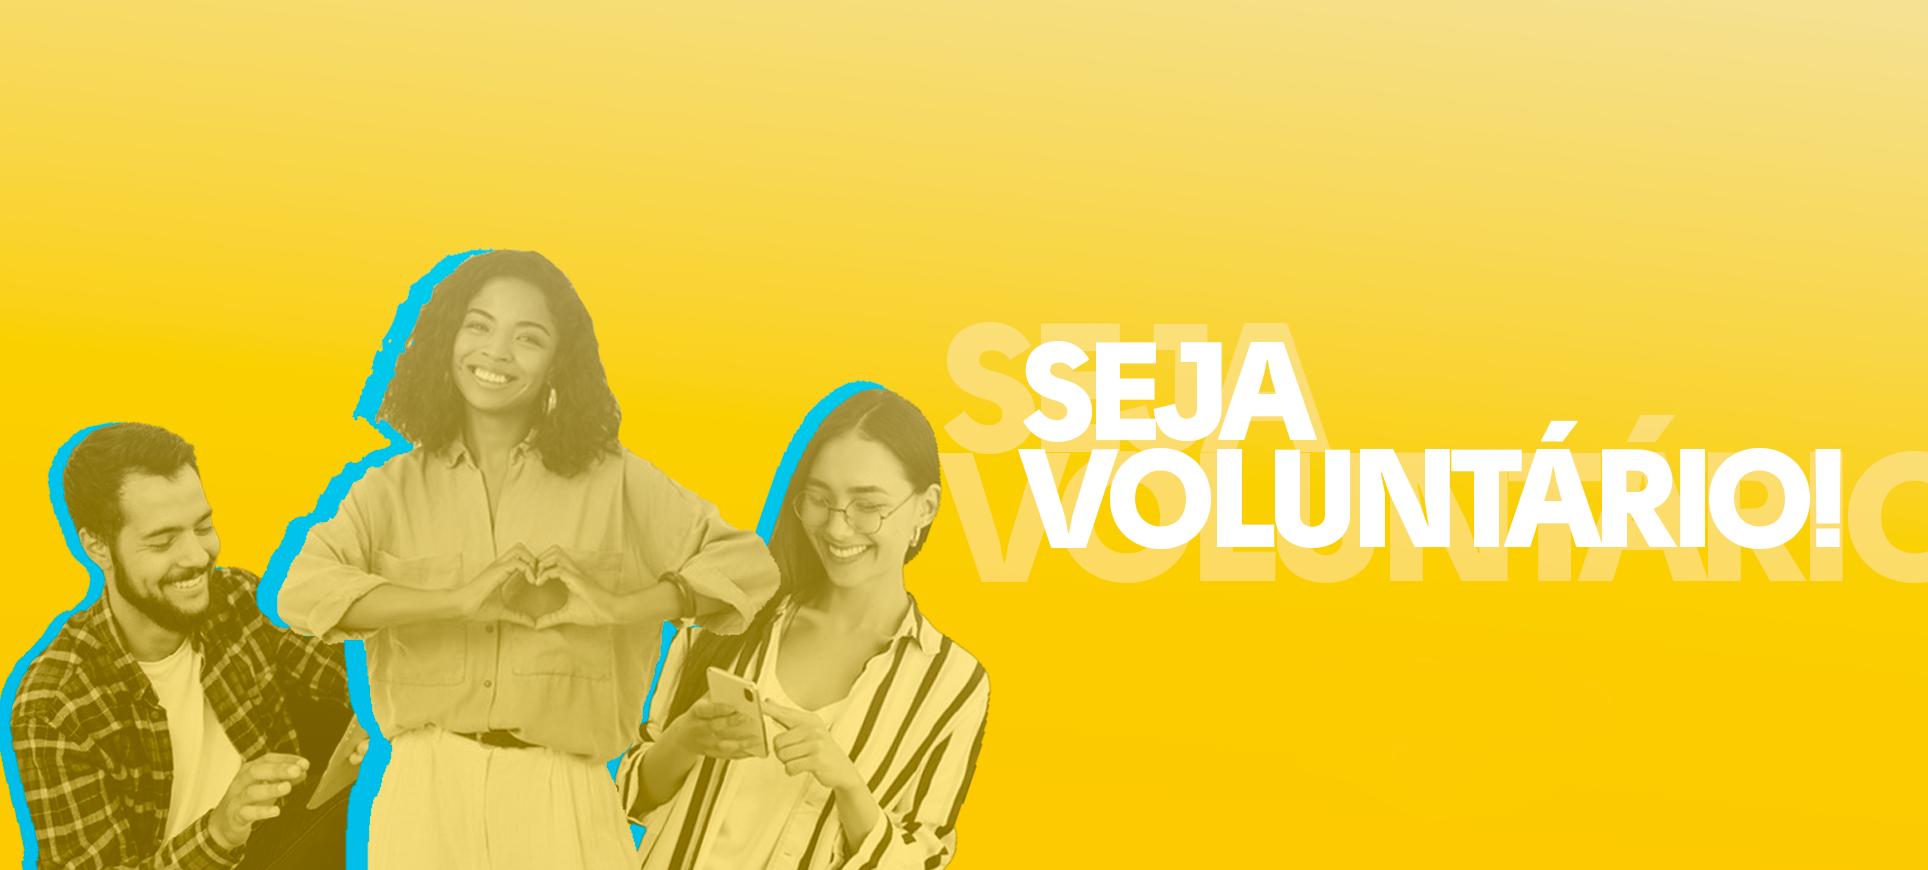
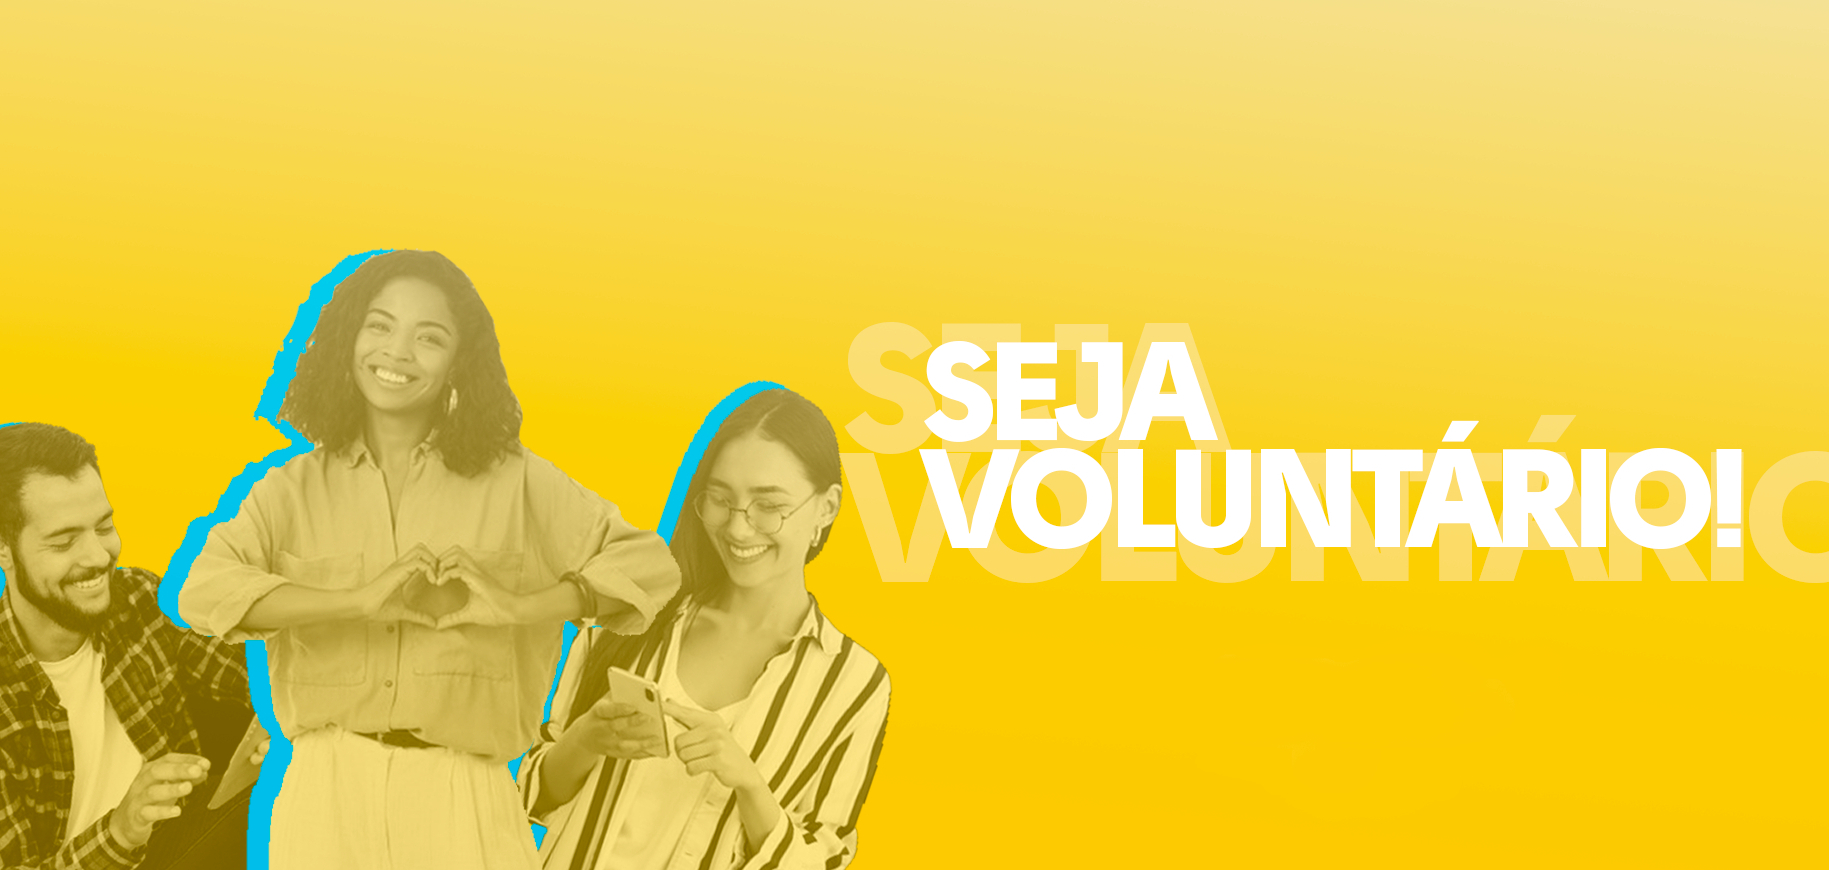
final ?

Changed region(s): [[0.0, 0.2793, 0.9661, 1.0]]

diff --git a/css/voluntario.css b/css/voluntario.css
@@ -53,46 +53,6 @@
       min-height: 97vh;
       margin: 0px !important;
   }
-  .caixabtnSB{
-    width: 100%;
-    height: 90vh;
-    display: flex;
-    justify-content: flex-end;
-    align-items: flex-end;
-  }
-  .btnSB{
-    display: flex;
-    flex-direction: column;
-    justify-content: center;
-    align-items: center;
-    position: relative;
-    right: 18%;
-    bottom: 11%;
-  }
-  #seta{
-    margin-top: 8px;
-    width: 40px;
-    height: 35px; 
-  }
-  .btnSB button{
-    width: 200px;
-    padding: 5px 0;
-    background-color: #2AACE3;
-    border: 2px solid #2aabe3c4;
-    box-shadow: 0px 0px 10px #00000059;
-    border-radius: 30px;
-    transition: box-shadow 1s, border 1.5s, color 1s, background-color 1s;
-  }
-  .btnSB button:hover{
-    border: 2px solid #1a93c798;
-    border-radius: 30px;
-    transition: box-shadow 1s, border 1.5s, color 1s, background-color 1s;
-  }
-  .btnSB span{
-    color: white;
-    font-weight: bolder;
-    font-size: 20px;
-  }
   /* Section 1 */
 
   .azul{
@@ -108,6 +68,7 @@
         }
         #azul1 .texto{
           width: 100%;
+          padding-top: 0;
         }
         #azul1 .texto p{
           padding: 0 60px;
@@ -121,7 +82,6 @@
     justify-content: center;
     align-items: center;
   }
-
   #sec1img{
   width: 350px;
   }
@@ -308,6 +268,7 @@
       margin-bottom: 5px;
     }
     .jumbotron1 {
+      background-image: url("../imagens/amareloedit.jpg");
       background-size: cover;
       background-repeat: no-repeat;
       background-position: center;
@@ -359,7 +320,6 @@
       background-repeat: no-repeat;
       background-position: center;
       background-attachment: scroll;
-      min-height: 26vh !important;
       margin: 0px !important;
     }
     .texto p{

diff --git a/aluno.html b/aluno.html
@@ -55,7 +55,7 @@
         <div class="caixatexto">
             <p class="titulo">Por que aprender a programar com o IPA?</p>
             <hr id="hrLaranja">
-            <p class="texto">A Área de Tecnologia, e especialmente a Programação é uma das mais promissoras do mercado de trabalho. Você pode se especializar e ser um profissional da área ou pode até mesmo aprender para ser um profissional diferenciado no Mercado de Trabalho. Afinal, o Amanhã Começa Hoje e a Tecnologia também.
+            <p class="texto">A Área de Tecnologia, e especialmente a Programação, é uma das mais promissoras do mercado de trabalho. Você pode se especializar e ser um profissional da área ou pode até mesmo aprender para ser um profissional diferenciado no Mercado de Trabalho. Afinal, o Amanhã Começa Hoje e a Tecnologia também.
             <br><br>
             Além disso, através do nosso programa de Capacitação você pode ingressar neste mundo com conhecimentos em desenvolvimento de sites e com a construção do seu primeiro Plano de Carreira.</p>
         </div>

diff --git a/css/benfeitor.css b/css/benfeitor.css
@@ -234,7 +234,7 @@ hr {
       background-repeat: no-repeat;
       background-position: center;
       background-attachment: scroll;
-      min-height: 70vh;
+      min-height: 73vh;
       margin: 0px !important;
     }
     .caixatexto{
@@ -289,7 +289,7 @@ hr {
       background-repeat: no-repeat;
       background-position: center;
       background-attachment: scroll;
-      min-height: 50vh;
+      min-height: 53vh;
       margin: 0px !important;
     }
   }
@@ -301,11 +301,18 @@ hr {
       background-repeat: no-repeat;
       background-position: center;
       background-attachment: scroll;
-      min-height: 35vh;
+      min-height: 38vh;
       margin: 0px !important;
     }
   }
 
   @media only screen and (max-width: 460px){
-
+    .jumbotron1 {
+      background-size: cover;
+      background-repeat: no-repeat;
+      background-position: center;
+      background-attachment: scroll;
+      min-height: 30vh;
+      margin: 0px !important;
+    }
 }

diff --git a/voluntario.html b/voluntario.html
@@ -81,7 +81,7 @@
         </div>
         <div class="texto2">
             <p id="titulo">Conheça nossos voluntários</p>
-            <p>Nossos voluntários são jovens e profissionais experientes dispostos a impactar vidas através de seus conhecimentos. Formamos uma rede de networking e saberes agregando conhecimento e também aprendendo com nossos colegas. Somos uma rede de colaboração mútua. Nós ensinamos, aprendemos, atuamos e impactamos!</p>
+            <p class="texto">Nossos voluntários são jovens e profissionais experientes dispostos a impactar vidas através de seus conhecimentos. Formamos uma rede de networking e saberes agregando conhecimento e também aprendendo com nossos colegas. Somos uma rede de colaboração mútua. Nós ensinamos, aprendemos, atuamos e impactamos!</p>
         </div>
     </section>
 <!-- Rodapé -->

diff --git a/index.html b/index.html
@@ -95,7 +95,7 @@
                 </div>
                 <div class="col-md-4 facaparte-alinhamento">
                     <i class="fas fa-hands-helping"></i>
-                    <p class="text-center facaparte-texto">O que você acha de programar o amanhã conosco!?</p>
+                    <p class="text-center facaparte-texto">O que você acha de programar o amanhã conosco?!</p>
                 </div>
                 <div class="col-md-4 facaparte-alinhamento">
                     <i class="fas fa-hands"></i>

diff --git a/css/index.css b/css/index.css
@@ -281,7 +281,7 @@ text-align: center;
     background-size: cover;
     background-repeat: no-repeat;
     background-position: center;
-    min-height: 35vh;
+    min-height: 32vh;
     margin: 0px !important;
   }
   /* Primeira Section */
@@ -310,7 +310,7 @@ text-align: center;
     background-size: cover;
     background-repeat: no-repeat;
     background-position: center;
-    min-height: 30vh;
+    min-height: 27vh;
     margin: 0px !important;
   }
 }

diff --git a/css/atividades.css b/css/atividades.css
@@ -296,7 +296,6 @@ hr {
       flex-direction: column;
       align-items: center;
       justify-content: center;
-      width: 750px;
     }
     .carddep{
       display: flex;
